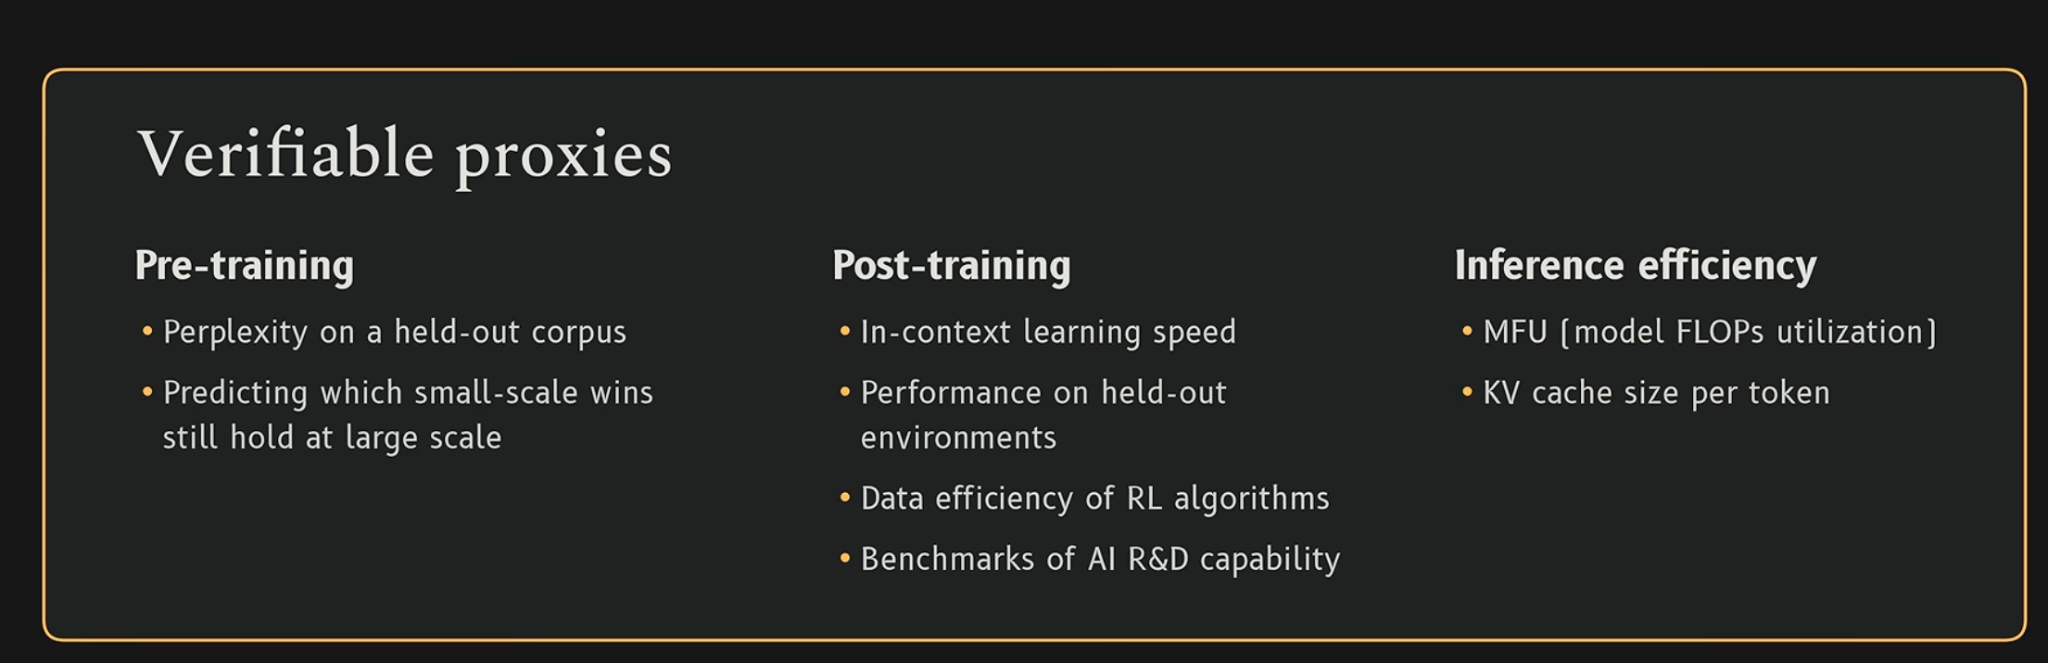
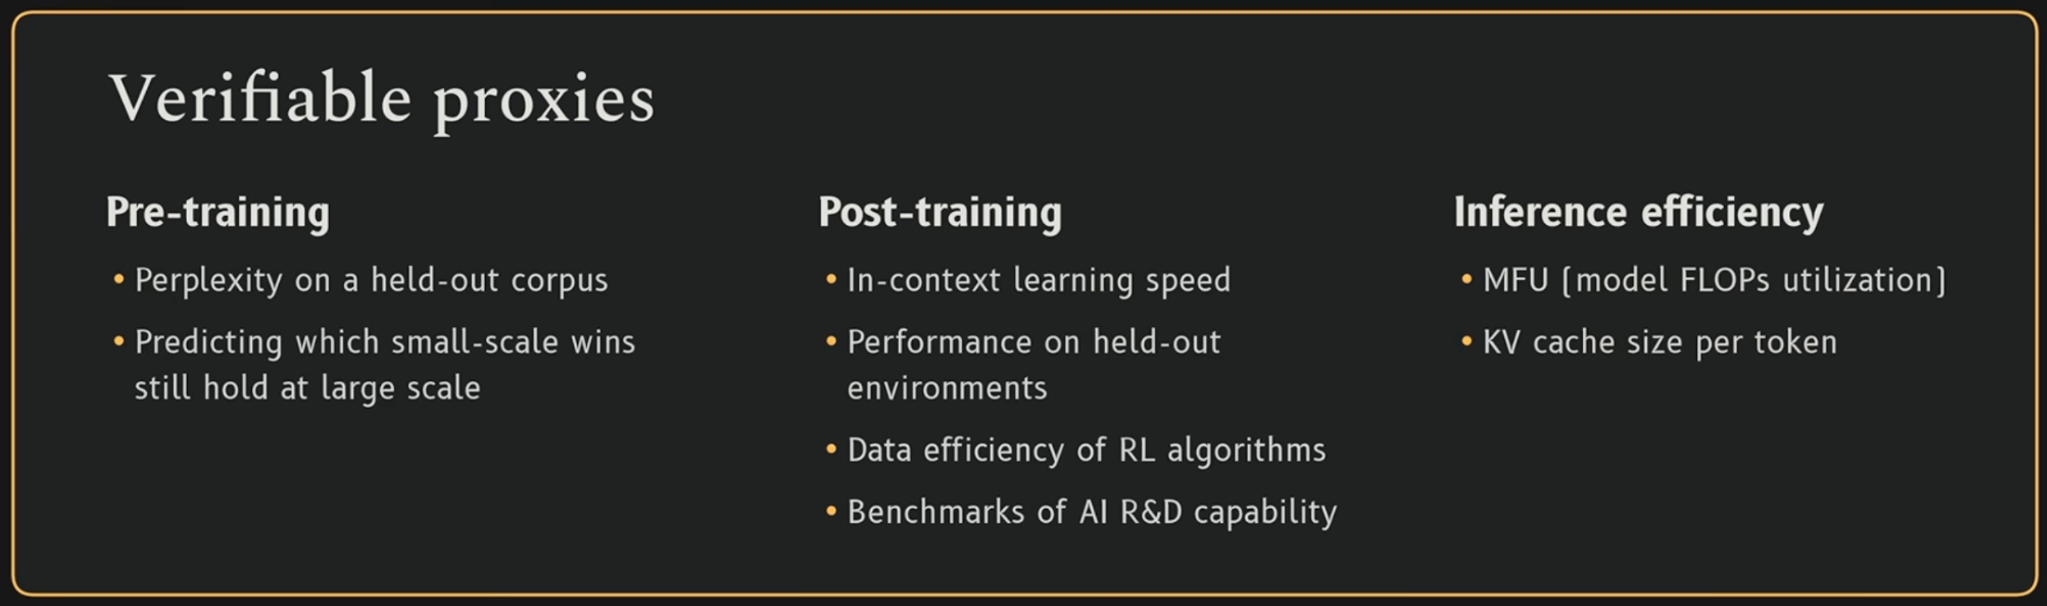
Use the revised verifiable proxies graphic

diff --git a/index.html b/index.html
@@ -300,7 +300,7 @@
         <p>human intelligence has been a bottleneck on how fast we can discover new things. i think ai can learn to do ai research because it can run experiments and check whether its ideas work. once a model can make the next model a better researcher, each generation can speed up the research that produces the next. that’s the takeoff i expect.</p>
         <figure>
           <a href="assets/verifiable-proxies.png" aria-label="Open the full-size verifiable proxies graphic">
-            <img src="assets/verifiable-proxies.png" width="2048" height="663" alt="Verifiable proxies for pre-training, post-training, and inference efficiency.">
+            <img src="assets/verifiable-proxies.png" width="2047" height="606" alt="Verifiable proxies for pre-training, post-training, and inference efficiency.">
           </a>
           <figcaption>
             <details>
